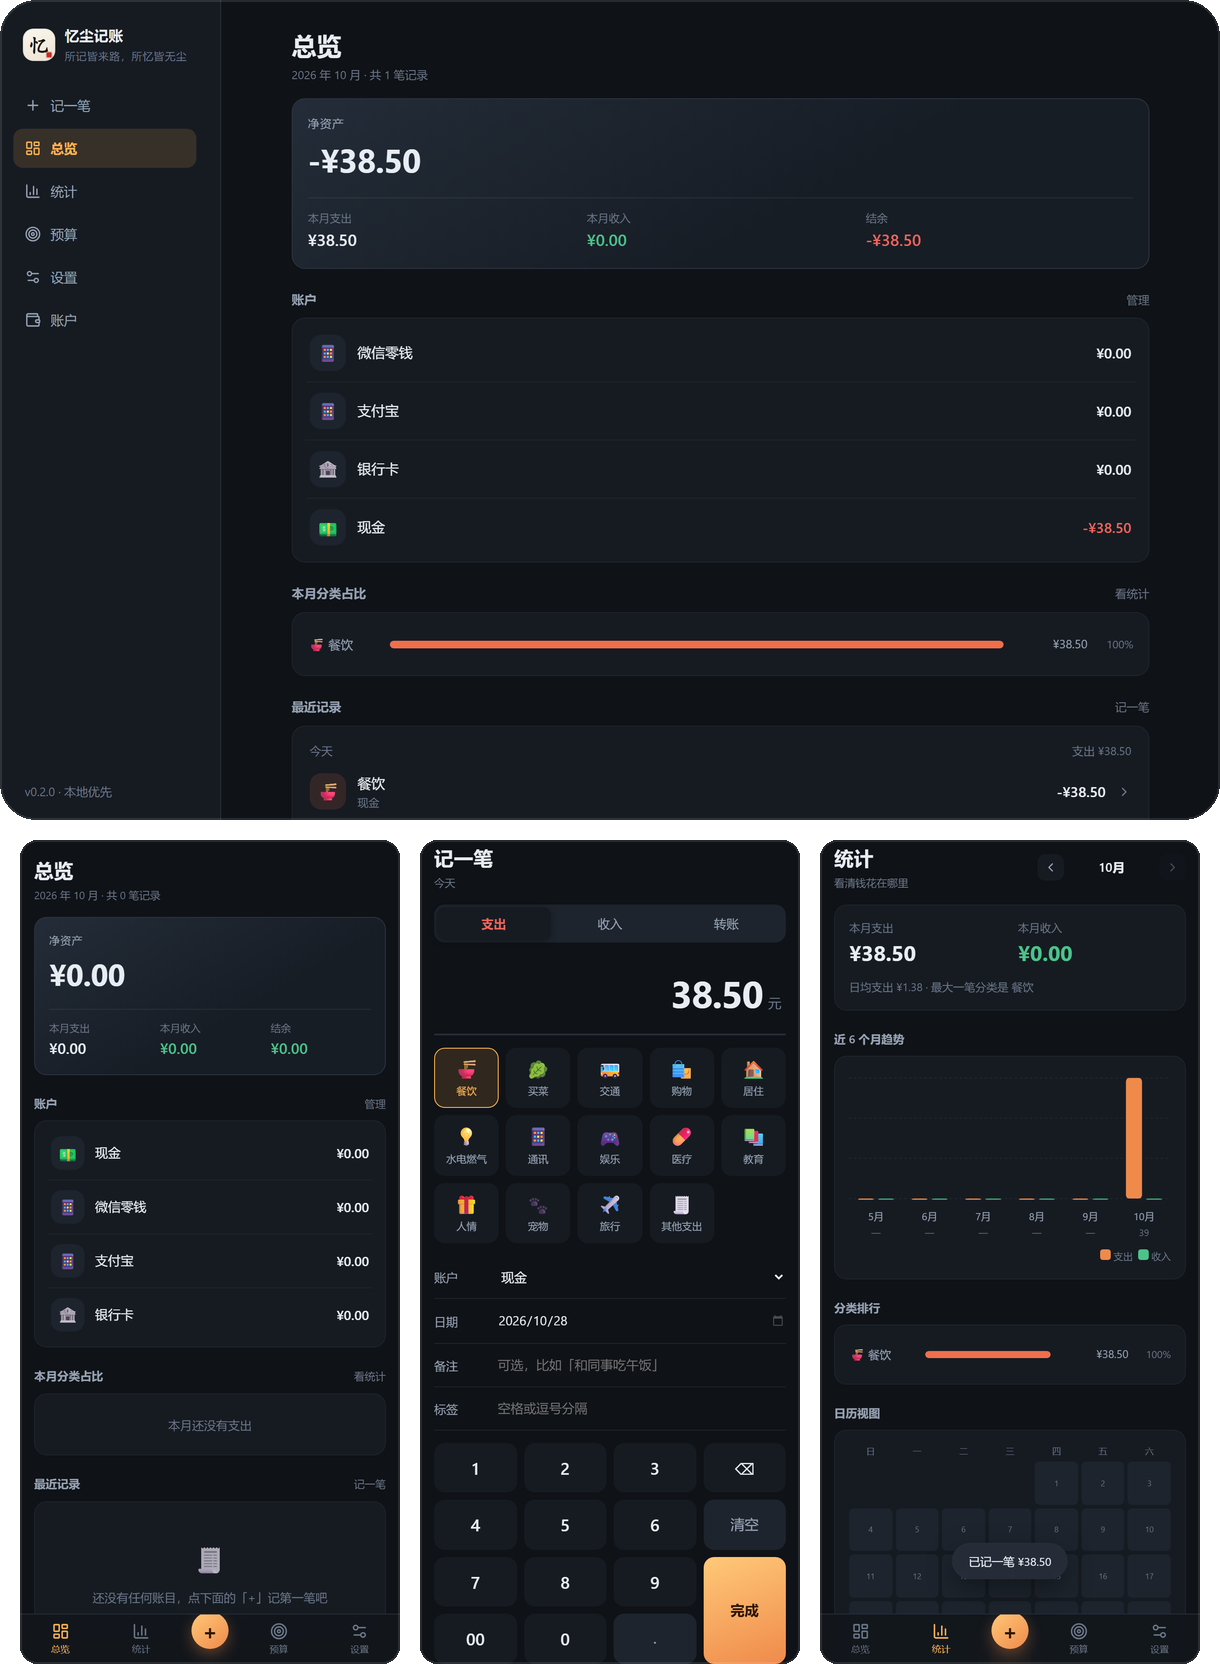
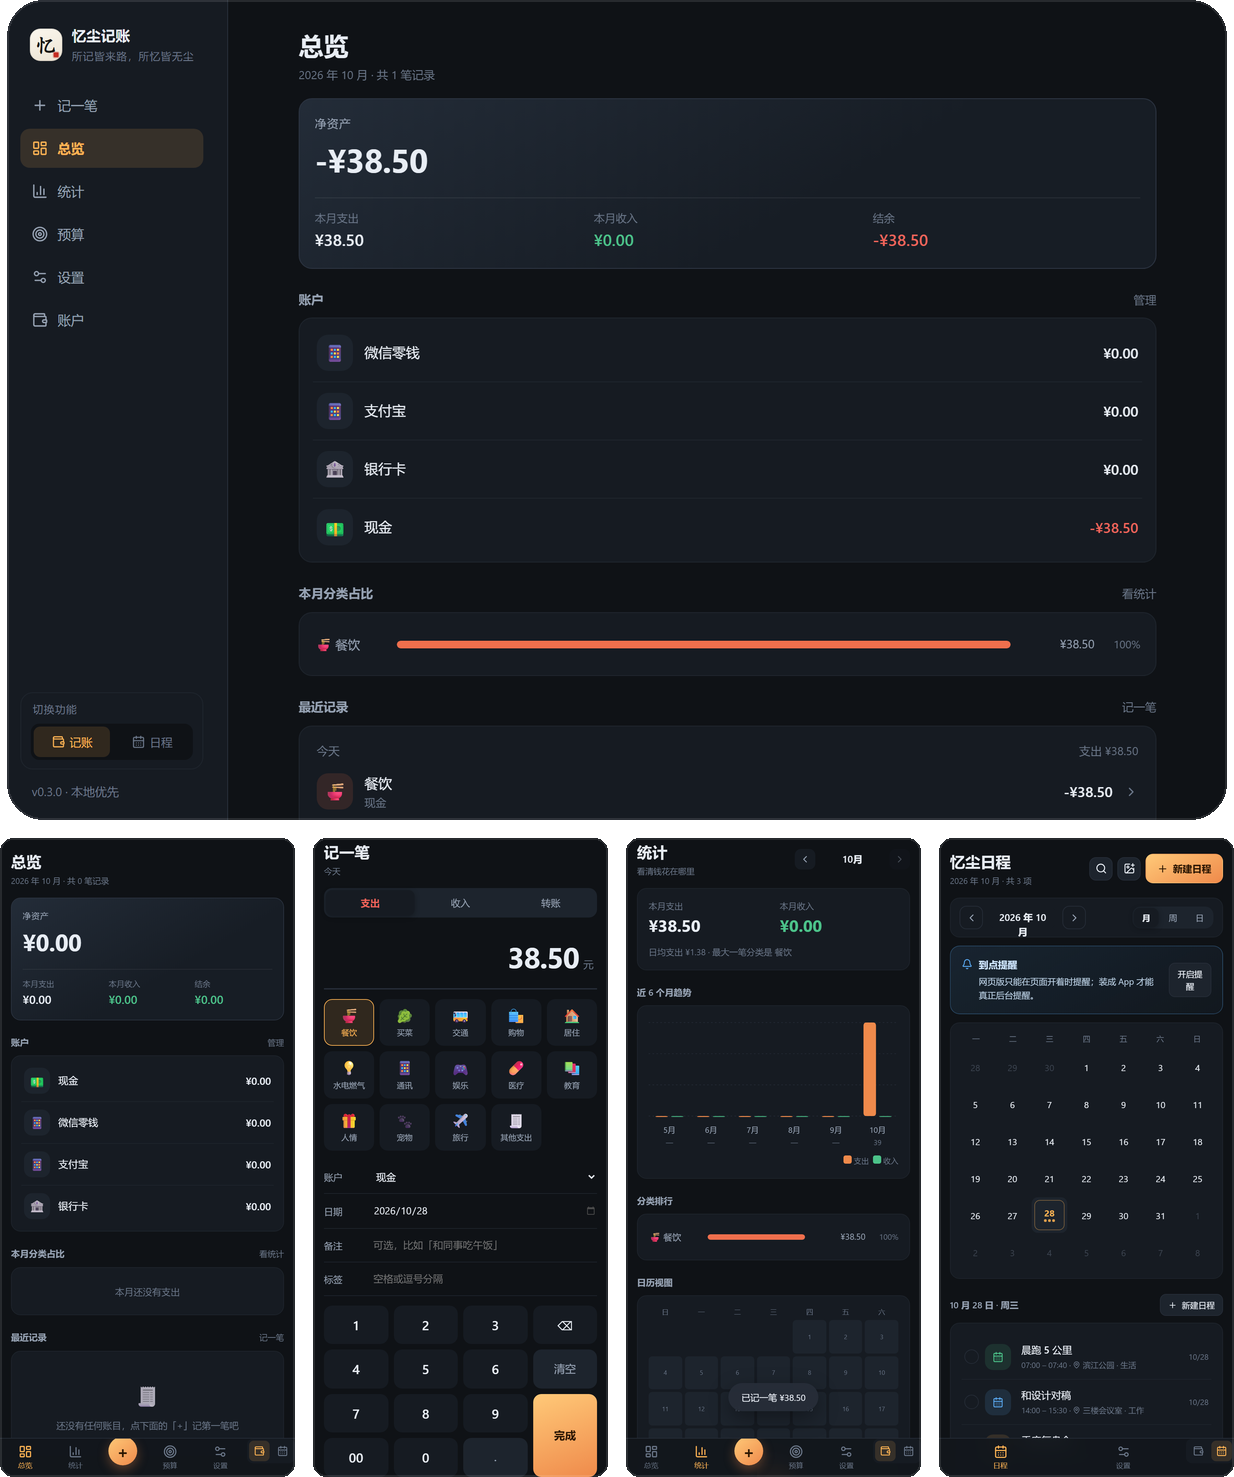
docs: 补 v0.3.0 的说明，预览图加上日程页
- 顶部版本号与下载表全部换成 0.3.0
- 「已经实现的功能」新增三条：忆尘日程、从图片建日程、到点提醒
- 路线图第 5 节标记日程模块已完成，并加一条「日程与账单打通」
- 自检脚本从六个变七个，补 schedule-check.mjs 的断言说明
- 目录结构补 domain/schedule.ts、domain/ocr.ts、state/ModeContext.tsx、
  state/notify.ts、state/ai.ts、pages/Schedule.tsx、pages/schedule/、tests/schedule.test.ts
- make-screenshots.py 从三张手机图改成四张（加了日程页），
  每张宽度从 380 收到 295，否则四张并排会把 README 撑出横向滚动

diff --git a/scripts/make-screenshots.py b/scripts/make-screenshots.py
@@ -1,9 +1,9 @@
 r"""把 .shots/ 里的自检截图拼成 README 用的预览图。
 
-自检脚本 (smoke.mjs / flows.mjs) 生成的原始截图体积大、尺寸也不统一，
-直接塞进仓库既费流量、在 GitHub 上排版也难看。这里把它们拼成一张
-`docs/screenshots/preview.png` —— 上方桌面版、下方三张手机版，
-圆角 + 描边，背景透明，深浅色主题下都不违和。
+自检脚本 (smoke.mjs / flows.mjs / sched-shots.mjs) 生成的原始截图体积大、
+尺寸也不统一，直接塞进仓库既费流量、在 GitHub 上排版也难看。这里把它们拼成一张
+`docs/screenshots/preview.png` —— 上方桌面版、下方四张手机版（总览 / 记一笔 /
+统计 / 日程），圆角 + 描边，背景透明，深浅色主题下都不违和。
 
 用 harness 自带的 python 跑（系统 python 没有 Pillow）：
 
@@ -23,17 +23,18 @@ OUT = ROOT / "docs" / "screenshots"
 RADIUS_RATIO = 0.045
 BORDER = (255, 255, 255, 26)  # 半透明白色描边，深色主题下是一道细高光
 
-# 预览图里从左到右的三张手机截图
+# 预览图里从左到右的四张手机截图
 PHONES = [
     ("m-01-home.png", "总览"),
     ("m-02b-add-filled.png", "记一笔"),
     ("m-04-stats.png", "统计"),
+    ("m-schedule-month.png", "日程"),
 ]
 DESKTOP = ("d-01-home.png", "桌面版")
 
-PANEL_W = 380          # 每张手机图缩放后的宽度
+PANEL_W = 295          # 每张手机图缩放后的宽度
 DESKTOP_W = 1220       # 桌面图缩放后的宽度
-GAP = 20
+GAP = 18
 PAD = 0                # 画布外边距，0 = 让圆角贴边，README 里更好排
 
 
@@ -80,7 +81,7 @@ def main() -> None:
     # 桌面图居中放上面
     canvas.alpha_composite(desk, ((canvas_w - desk.width) // 2, PAD))
 
-    # 三张手机图并排放下方，整体居中
+    # 手机图并排放下方，整体居中
     x = (canvas_w - row_w) // 2
     y = PAD + desk.height + GAP
     for panel in panels:

diff --git a/README.md b/README.md
@@ -3,7 +3,7 @@
 一个**本地优先**的个人记账应用：一套代码，同时运行在 **Android / iOS / Windows / macOS** 上。
 数据全部保存在你自己的设备里（IndexedDB），不经过任何服务器。
 
-> 当前版本 `v0.2.0`：新增设置中心、中/英/日三语、外观自定义与 iOS 手感动画。
+> 当前版本 `v0.3.0`：新增「忆尘日程」——侧边栏一键切换工作区，月/周/日视图、重复规则、图片识别建日程、到点提醒。
 
 ![界面预览：桌面版总览与手机版总览、记一笔、统计](docs/screenshots/preview.png)
 
@@ -21,11 +21,11 @@
 
 | 平台 | 文件 | 说明 |
 | --- | --- | --- |
-| Windows | `yichen-ledger-0.2.0-win-x64.exe` | 安装版，可选安装目录 |
-| Windows | `yichen-ledger-0.2.0-win-x64.zip` | 免安装，解压即用 |
-| macOS（Apple 芯片） | `yichen-ledger-0.2.0-mac-arm64.dmg` | M1/M2/M3/M4 |
-| macOS（Intel） | `yichen-ledger-0.2.0-mac-x64.dmg` | 老款 Mac |
-| Linux | `yichen-ledger-0.2.0-linux-x86_64.AppImage` | `chmod +x` 后直接运行 |
+| Windows | `yichen-ledger-0.3.0-win-x64.exe` | 安装版，可选安装目录 |
+| Windows | `yichen-ledger-0.3.0-win-x64.zip` | 免安装，解压即用 |
+| macOS（Apple 芯片） | `yichen-ledger-0.3.0-mac-arm64.dmg` | M1/M2/M3/M4 |
+| macOS（Intel） | `yichen-ledger-0.3.0-mac-x64.dmg` | 老款 Mac |
+| Linux | `yichen-ledger-0.3.0-linux-x86_64.AppImage` | `chmod +x` 后直接运行 |
 | Android | `app-debug.apk` | 手机浏览器下载后点安装 |
 | iOS | `yichen-ledger-unsigned.ipa` | **未签名**，需自行重签，见下方说明 |
 
@@ -95,6 +95,9 @@
   对比度、饱和度、缩放、偏移、透明度、暗化、适配方式、水平翻转；外加全局字体风格、字号基准、
   文字颜色、强调色、圆角、玻璃面板
 - **iOS 手感**（v0.2.0）：页面横向 push/pop、列表交错淡入、按下回弹、弹层阻尼，尊重系统的「减少动态效果」
+- **忆尘日程**（v0.3.0）：侧边栏与底部导航的模式切换钮，一键在「记账 / 日程」之间换整个工作区；月 / 周 / 日三种视图；全天、时间区间、地点、标签、颜色、备注；每天 / 每周 / 每月 / 每年的重复规则（含自定义间隔与重复日）；勾选完成、搜索、删除
+- **从图片建日程**（v0.3.0）：拍一张课程表或会议通知，填了 API Key 走云端多模态，没填就走本机 OCR（tesseract.js，第一次用要下语言包）
+- **到点提醒**（v0.3.0）：Android / iOS 走系统本地通知，App 关着也能弹；网页版退化成页面内提醒，并明确告知这个限制
 - **离线 & 隐私**：无网络依赖、无账号、无埋点
 
 ---
@@ -144,6 +147,8 @@
 ### 5. 平台特性
 - [ ] **生物识别锁**：Face ID / 指纹 / Windows Hello
 - [x] **多语言**：中文 / 英文 / 日文（v0.2.0 已做）
+- [x] **日程 / 日历模块**：月 / 周 / 日视图、重复规则、图片识别（v0.3.0 已做）
+- [ ] **日程与账单打通**：把「还信用卡」这类日程一键生成周期账单
 - [ ] **浅色主题**（当前是深色优先，但壁纸、配色、字体已经可以自定义）
 - [ ] **桌面端系统托盘常驻 + 开机自启**
 
@@ -172,7 +177,7 @@ npm run electron
 
 ### 自检脚本
 
-仓库里带了六个用来确认「真的能跑」的脚本，CI 或本地改完代码都可以跑：
+仓库里带了七个用来确认「真的能跑」的脚本，CI 或本地改完代码都可以跑：
 
 ```bash
 npm run build
@@ -182,6 +187,7 @@ node scripts/flows.mjs              # 深流程：预算超支、建账户、改
 node scripts/pwa-check.mjs          # 网页版：manifest、图标、SW 缓存、断网后还能打开
 node scripts/live-check.mjs         # 直接打线上 Pages 地址，端到端验证线上那份能用
 node scripts/appearance-check.mjs   # 设置页四组、切语言、上传壁纸、分区独立生效
+node scripts/schedule-check.mjs     # 忆尘日程：模式切换、月/周/日视图、增删改、搜索、持久化
 
 # 或者验证桌面端（Electron 直接加载 dist/index.html）
 node_modules/electron/dist/electron.exe --no-sandbox --user-data-dir=.shots/edata scripts/electron-check.cjs
@@ -198,6 +204,10 @@ node_modules/electron/dist/electron.exe --no-sandbox --user-data-dir=.shots/edat
 `scripts/appearance-check.mjs` 专门盯 v0.2.0 的新东西：设置页四组齐全 → 本地存储横幅在 → 语言下拉切到英文后导航文字和
 `<html lang>` 一起变 → 字号基准调到 120% 后实际字号变大 → 用 canvas 现场生成一张图当壁纸上传 →
 **只有主内容区出现壁纸、侧边栏仍为空**（验证三区域独立）→ 回总览后壁纸还在。
+
+`scripts/schedule-check.mjs` 盯 v0.3.0：默认是记账模式且导航是六项 → 侧边栏有模式切换钮 → 切过去后路由是 `#/schedule`、
+导航换成「日程 / 设置」→ 月视图 42 格、周标题从周一开始 → 新建一条日程后列表里出现且时间正确 → 勾选后标记完成 →
+周视图 7 列、日视图有日期标题 → 搜索能命中 → 切回记账模式回到总览 → 刷新后仍停在日程模式。
 
 ### 推送代码时如果连不上 GitHub
 
@@ -266,8 +276,8 @@ python scripts/make-pwa-assets.py       # 网页版用的那几张 PNG
 「忆」，马善政毛笔楷书备用），只用来生成图标，不进安装包。印章上的「记」用
 宋体加粗后做刀刻处理 —— 本机没有篆书字体，篆书虽是印章正体，但装不上就算了。
 
-产物结构：`yichen-ledger-0.2.0-win-x64.exe`（约 88 MB，可选安装目录）、
-`yichen-ledger-0.2.0-win-x64.zip`（免安装，约 112 MB）。
+产物结构：`yichen-ledger-0.3.0-win-x64.exe`（约 88 MB，可选安装目录）、
+`yichen-ledger-0.3.0-win-x64.zip`（免安装，约 112 MB）。
 
 > **排坑：别在项目目录里跑产出的安装包。** NSIS 生成卸载程序时会执行一次
 > 自己产出的安装包。如果安装包就躺在项目目录里（比如
@@ -314,7 +324,7 @@ executableName: 'yichen-ledger', // 程序目录名、可执行文件名 —— 
 
 | 平台 | 磁盘上的名字 | 用户看到的名字 |
 | --- | --- | --- |
-| Windows | `%LOCALAPPDATA%\Programs\yichen-ledger\yichen-ledger.exe` | 开始菜单 / 桌面快捷方式「忆尘记账」，窗口标题「忆尘记账」，控制面板「忆尘记账 0.2.0」 |
+| Windows | `%LOCALAPPDATA%\Programs\yichen-ledger\yichen-ledger.exe` | 开始菜单 / 桌面快捷方式「忆尘记账」，窗口标题「忆尘记账」，控制面板「忆尘记账 0.3.0」 |
 | macOS | `/Applications/yichen-ledger.app` | Finder、启动台、Dock 显示「忆尘记账」（来自 `CFBundleName` / `CFBundleDisplayName`） |
 | Linux | `yichen-ledger` 可执行文件 + `*.AppImage` | 应用菜单里显示「忆尘记账」（`.desktop` 的 `Name`） |
 | Android / iOS | `com.yichen.ledger` | 桌面图标下的名字「忆尘记账」 |
@@ -416,8 +426,8 @@ npx cap open ios         # 在 Xcode 里运行 / 打包
 把这一步交给 GitHub Actions —— 它三种系统的 runner 都有：
 
 ```bash
-git tag v0.2.0
-git push origin v0.2.0
+git tag v0.3.0
+git push origin v0.3.0
 ```
 
 推一个 `v*` 的 tag 就会并行跑五个任务，然后建一个 Release，把产物挂上去：
@@ -493,12 +503,19 @@ docs/releases/v0.2.0.md
 ```
 src/
   domain/model.ts        纯领域逻辑：金额、日期、汇总、CSV（无框架依赖，可单测）
+  domain/schedule.ts     日程的纯逻辑：重复规则展开、跨天/全天、提醒时间、视图分栏
+  domain/ocr.ts          把识别出来的文字猜成日程（纯函数，可单测）
   db/index.ts            Dexie 表结构与默认账户/分类
   db/repository.ts       所有增删改查、导入导出（错误只抛错误码，翻译留在界面层）
   i18n/                  中 / 英 / 日三份词典 + useI18n / useErrorText
   state/LedgerContext.tsx 用 useLiveQuery 订阅数据库，写库后全站自动刷新
   state/AppearanceContext.tsx 三区域壁纸、字体、配色，写 CSS 变量并落到 settings 表
+  state/ModeContext.tsx  记账 / 日程两个工作区的切换状态
+  state/notify.ts        到点提醒：原生本地通知 / 网页版降级
+  state/ai.ts            云端 AI 配置（Base URL、模型、Key），没配就走本地
   pages/                 总览 / 记一笔 / 统计 / 预算 / 我的 / 账户 / 分类
+  pages/Schedule.tsx     忆尘日程主页面（月 / 周 / 日三视图）
+  pages/schedule/        日程的弹层组件（表单、搜索、图片识别）
   components/Toast.tsx   轻提示
   components/Sheet.tsx   底部弹层（portal 到 body，避免被 transform 祖先困住）
   components/Backdrop.tsx 单个区域的背景图层
@@ -507,7 +524,8 @@ public/
   manifest.webmanifest   PWA 清单（名字、图标、快捷方式）
   sw.js                  Service Worker：离线缓存
   pwa-*.png              网页版图标
-tests/domain.test.ts     领域层单元测试
+tests/domain.test.ts     记账领域层单元测试
+tests/schedule.test.ts   日程领域层单元测试（重复规则、视图分栏、OCR 猜时间）
 electron/main.cjs        桌面端主进程
 capacitor.config.ts      移动端配置
 build/                   electron-builder 用的图标（由 scripts/make-icon.py 生成）
